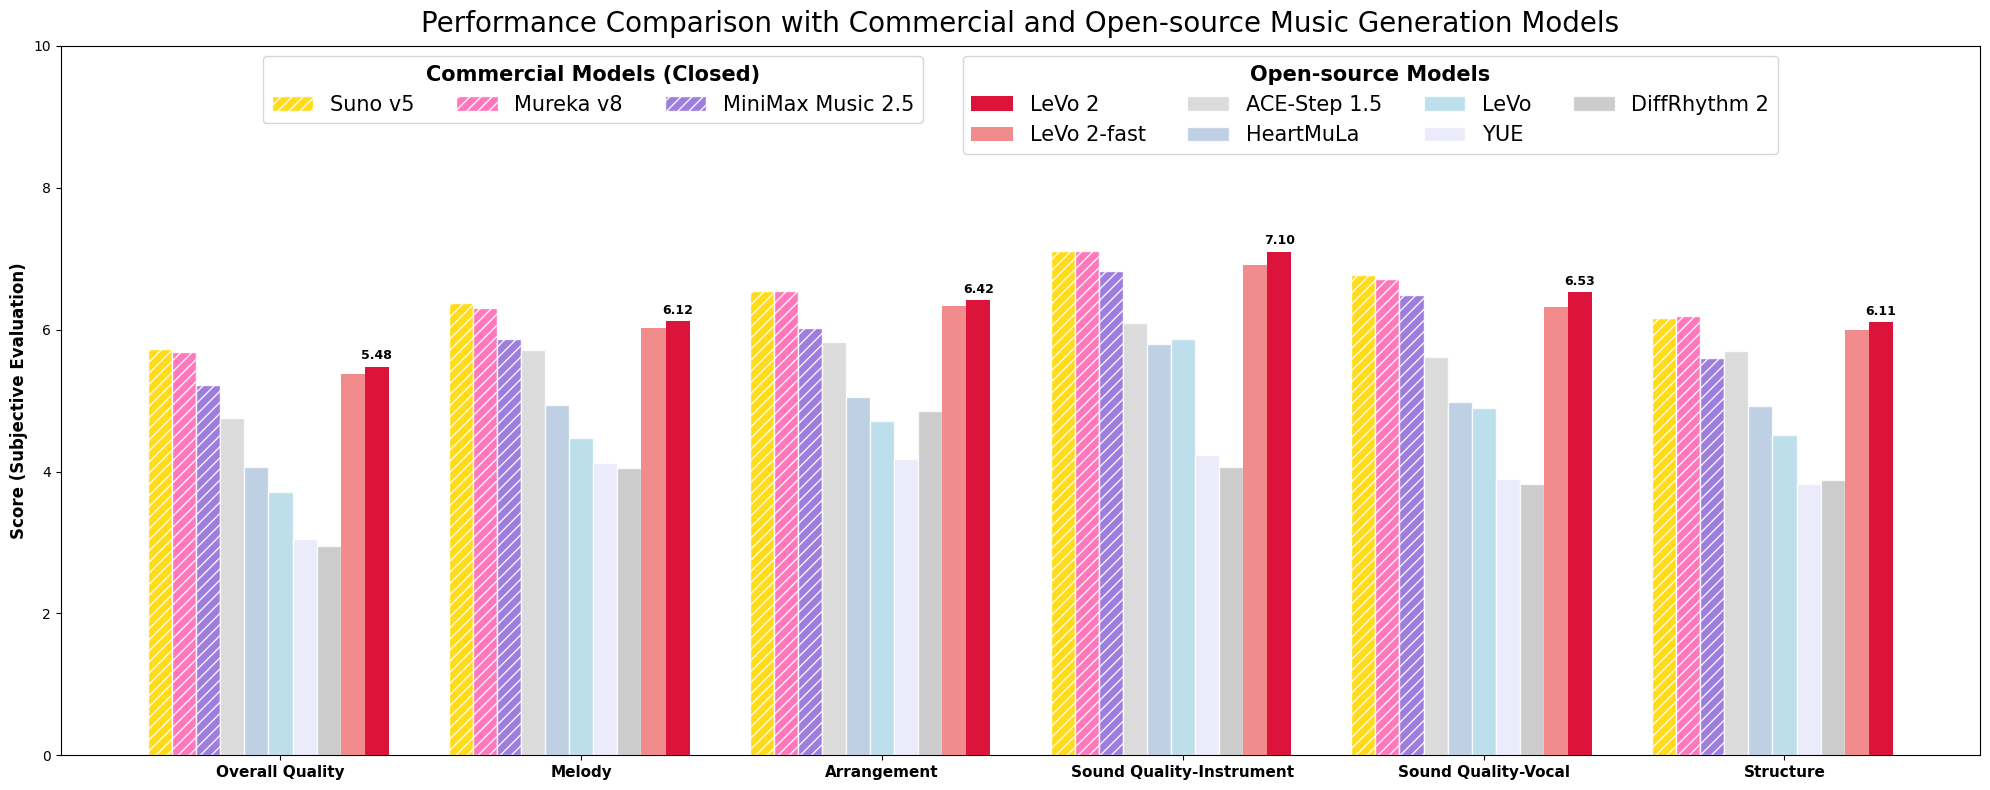
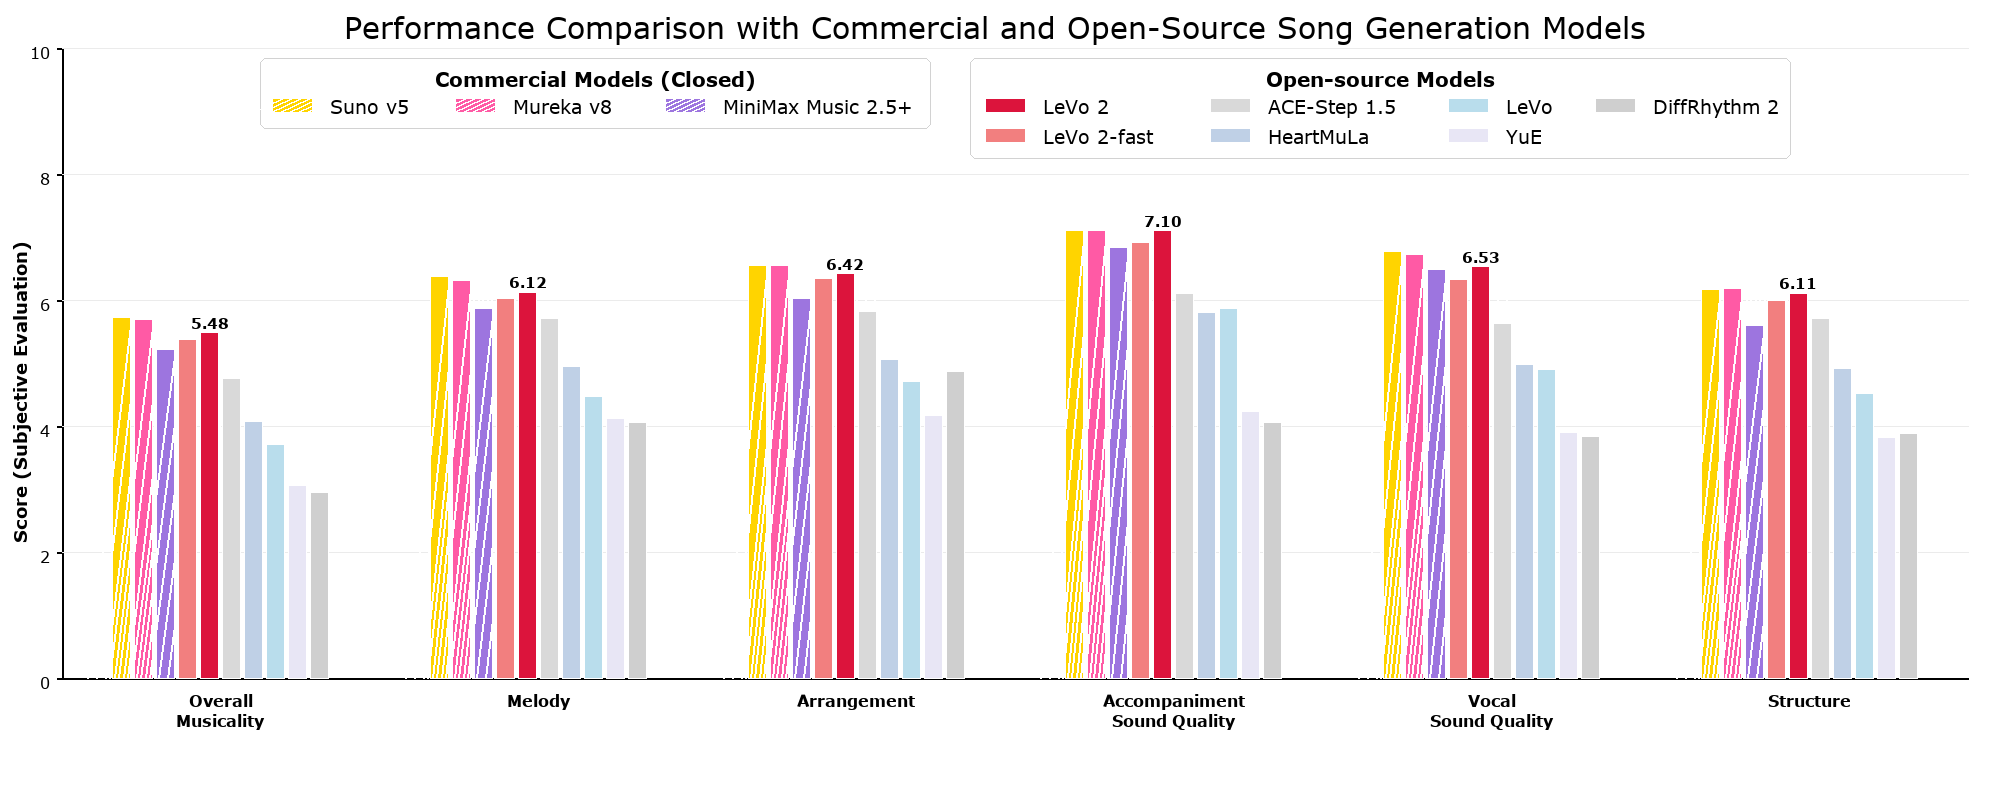
update

diff --git a/index.html b/index.html
@@ -3,8 +3,8 @@
 <head>
   <meta charset="utf-8">
   <meta name="description"
-        content="LeVo 2: Enhancing Musicality and Controllability via Multi-Stage Progressive Post-Training">
-  <meta name="keywords" content="Song generation, Music generation, Language Model, Direct Preference Optimization, Multi-Stage Progressive Post-Training">
+        content="LeVo 2: Stable and Melodious Song Generation via Hierarchical Representation Modeling and Progressive Post-Training">
+  <meta name="keywords" content="Song generation, Music generation, Language Model, Hierarchical Representation Modeling, Aesthetics-Guided Training, Direct Preference Optimization, Progressive Post-Training">
   <meta name="viewport" content="width=device-width, initial-scale=1">
   <title>LeVo 2</title>
 
@@ -55,20 +55,19 @@
         </div>
       </div>
     </div>
-    <div class="image-container" style="display: flex; justify-content: center; align-items: center; gap: 1.0rem; margin-top: 0.75rem;">
+    <!-- <div class="image-container" style="display: flex; justify-content: center; align-items: center; gap: 1.0rem; margin-top: 0.75rem;">
 			<div>
 				<img src="./static/logo_tencent.png" alt="Tencent" style="height: 80px; width: auto;">
 			</div>
 			<div>
 				<img src="./static/logo_hcsi.png" alt="HCSI" style="height: 80px; width: auto;">
 			</div>
-		</div>
+		</div> -->
   </div>
 
   <div class="has-text-centered" style="margin-top: 0rem; padding-bottom: 20px;">
-    <a href="https://github.com/tencent-ailab/songgeneration"><img src="https://img.shields.io/badge/Project%20Page-GitHub-blue"></a>
-    <a href="https://huggingface.co/tencent/SongGeneration" style="margin-left: 0.5rem;"><img src="https://img.shields.io/badge/%F0%9F%A4%97%20Hugging%20Face-Model-blue"></a>
-    <a href="https://huggingface.co/spaces/tencent/SongGeneration" style="margin-left: 0.5rem;"><img src="https://img.shields.io/badge/Live%20PlayGround-Demo-orange"></a>
+    <a href="https://github.com/levo-demo/LeVo"><img src="https://img.shields.io/badge/Project%20Page-GitHub-blue"></a>
+    <a href="https://huggingface.co/collections/lglg666/levo" style="margin-left: 0.5rem;"><img src="https://img.shields.io/badge/%F0%9F%A4%97%20Hugging%20Face-Model-blue"></a>
   </div>
 </section>
 
@@ -83,10 +82,9 @@
         <h2 class="title is-3">Abstract</h2>
         <div class="content has-text-justified" style="font-size: 1.125rem; line-height: 1.7; font-family: 'Castoro', sans-serif;">
           <p>
-            🚀 We introduce <strong><a href="https://github.com/tencent-ailab/songgeneration" target="_blank" rel="noopener">LeVo 2</a></strong> (SongGeneration 2), an open-source foundation model achieving <strong>commercial-grade music generation</strong>. Through a <strong>large-scale expert evaluation</strong> (20 professionals, 6 dimensions, 100 songs per model), LeVo 2 is proven to <strong>outperform open-source baselines</strong> and <strong>rival commercial systems</strong> in Overall Quality, Melody, Arrangement, Sound Quality, and Structure, while matching many models in controllability assessments.<br>
-            🧠 LeVo 2 adopts a <strong>Hybrid LLM-Diffusion Architecture</strong>. The Language Model acts as the <strong>"Composer Brain"</strong>, orchestrating the global musical structure and performance logic (solving <em>how</em> to sing and play), while the Diffusion Model serves as the <strong>"High-Fidelity Renderer"</strong> to synthesize intricate acoustic details. At its core, we pioneer Hierarchical Representation Modeling to perfectly balance musicality with audio fidelity. Crucially, we utilize a <strong>Multi-Stage Progressive Post-Training</strong> strategy to explicitly align the LLM with both <strong>controllability standards and music aesthetics prior</strong>. This alignment process drastically enhances the model's controllability, effectively eliminates lyrical hallucinations, and ensures the generation of <strong>stable, structurally coherent, melodious music</strong>.<br>
-            🎧 We are thrilled to release the <strong><a href="https://huggingface.co/lglg666/SongGeneration-v2-large" target="_blank" rel="noopener">LeVo-v2-large</a></strong> and <strong><a href="" target="_blank" rel="noopener">LeVo-v2-medium (coming soon)</a></strong> models, which support <strong>multilingual lyrics</strong> and offer versatile control via <strong>text descriptions, audio prompts, and style presets</strong>. Designed for accessibility, it can run locally with 22GB VRAM (Large) and as little as 12GB VRAM (Medium).<br>
-            ⚡ For an immediate experience, we also provide the <strong>LeVo-v2-fast</strong> version on <a href="https://huggingface.co/spaces/tencent/SongGeneration" target="_blank" rel="noopener">HuggingFace Space</a>! You can now generate a complete song in <strong>under one minute</strong>, trading a slight loss in musicality for significantly faster generation speed.<br>
+            🚀 We introduce <strong><a href="https://github.com/levo-demo/LeVo" target="_blank" rel="noopener">LeVo 2</a></strong>, an open-source song generation framework for full-length music. Through a <strong>large-scale expert evaluation</strong> with 20 music professionals, covering 100 Chinese and 100 English songs per model across six subjective dimensions, LeVo 2 <strong>outperforms open-source baselines</strong> and <strong>approaches leading commercial systems</strong> on several listening metrics.<br>
+            🧠 LeVo 2 adopts a <strong>hybrid LLM-Diffusion framework</strong>. LeLM separates global semantic planning from track-specific acoustic refinement: a Mixed Semantic LM predicts mixed tokens for song-level structure, while a Track-Specific LM predicts vocal and accompaniment tokens in parallel conditioned on the global planner. A diffusion-based Music Codec then reconstructs the predicted tokens into full-length song waveforms. The main training contribution is a <strong>decoupled, aesthetics-guided strategy</strong>: pre-training assigns musicality-tier conditions, progressive post-training uses SFT, large-scale offline DPO, and closed-loop semi-online DPO to improve controllability and musicality, and modular extension refines track-specific acoustics.<br>
+            🎧 The released models support <strong>multilingual lyrics</strong> and controllable generation with <strong>text descriptions and audio prompts</strong>. Designed for accessibility, LeVo-v2-large can run locally with 22GB VRAM, and LeVo-v2-medium is planned for lower-memory deployment.<br>
           </p>
         </div>
 
@@ -1305,7 +1303,6 @@
         </table>
   </div>
 </section>
-
 
 
 
